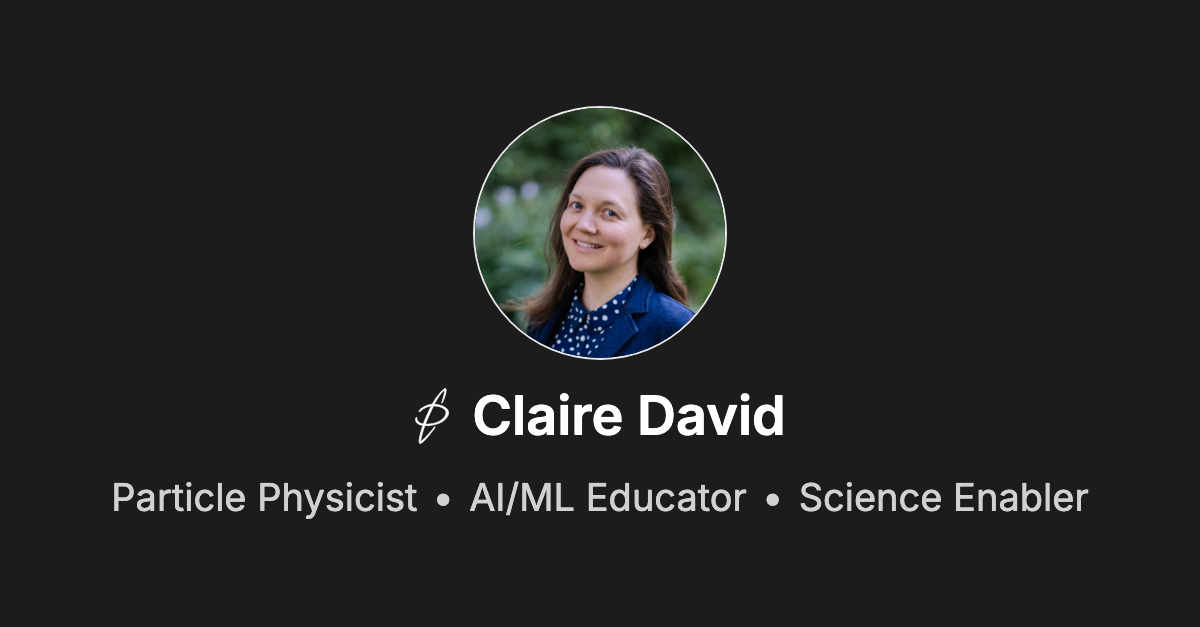
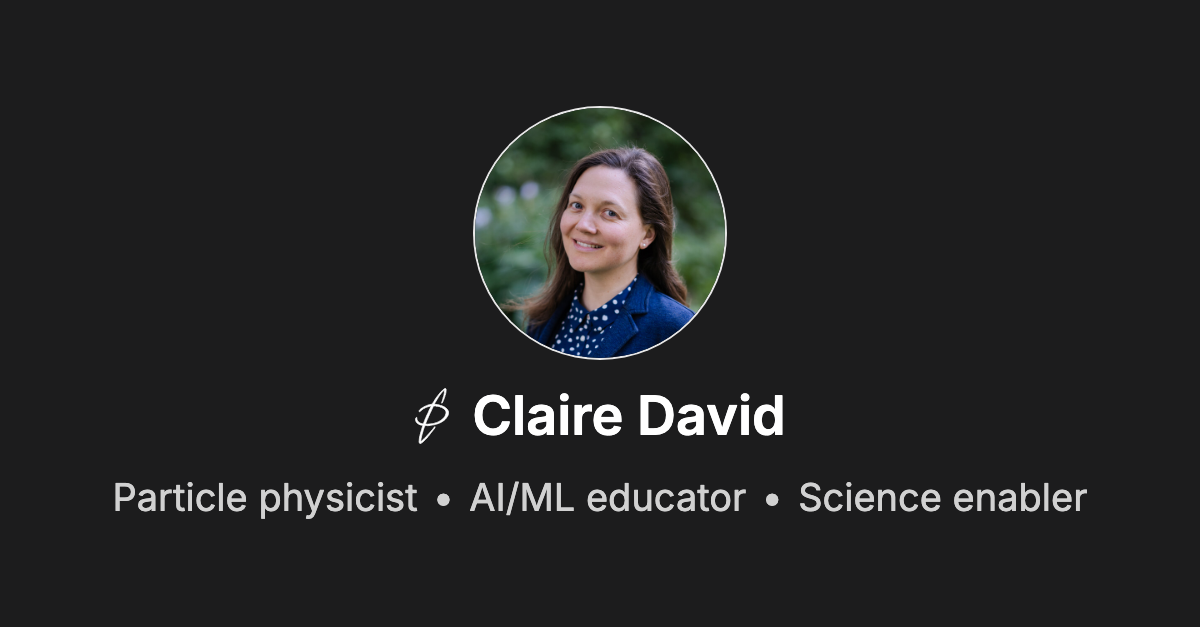
Social card: sentence-case tagline

diff --git a/scripts/social-card/card.template.html b/scripts/social-card/card.template.html
@@ -66,6 +66,6 @@
     <svg class="logo" xmlns="http://www.w3.org/2000/svg" viewBox="250.4 91.2 523.7 842.7"><g transform="translate(0,1024) scale(0.1,-0.1)" fill="currentColor" stroke="currentColor" stroke-width="120" stroke-linejoin="round"><path d="@LOGO_PATH@"/></g></svg>
     <div class="name">Claire David</div>
   </div>
-  <div class="tagline">Particle Physicist<span class="dot">&bull;</span>AI/ML Educator<span class="dot">&bull;</span>Science Enabler</div>
+  <div class="tagline">Particle physicist<span class="dot">&bull;</span>AI/ML educator<span class="dot">&bull;</span>Science enabler</div>
 </body>
 </html>
